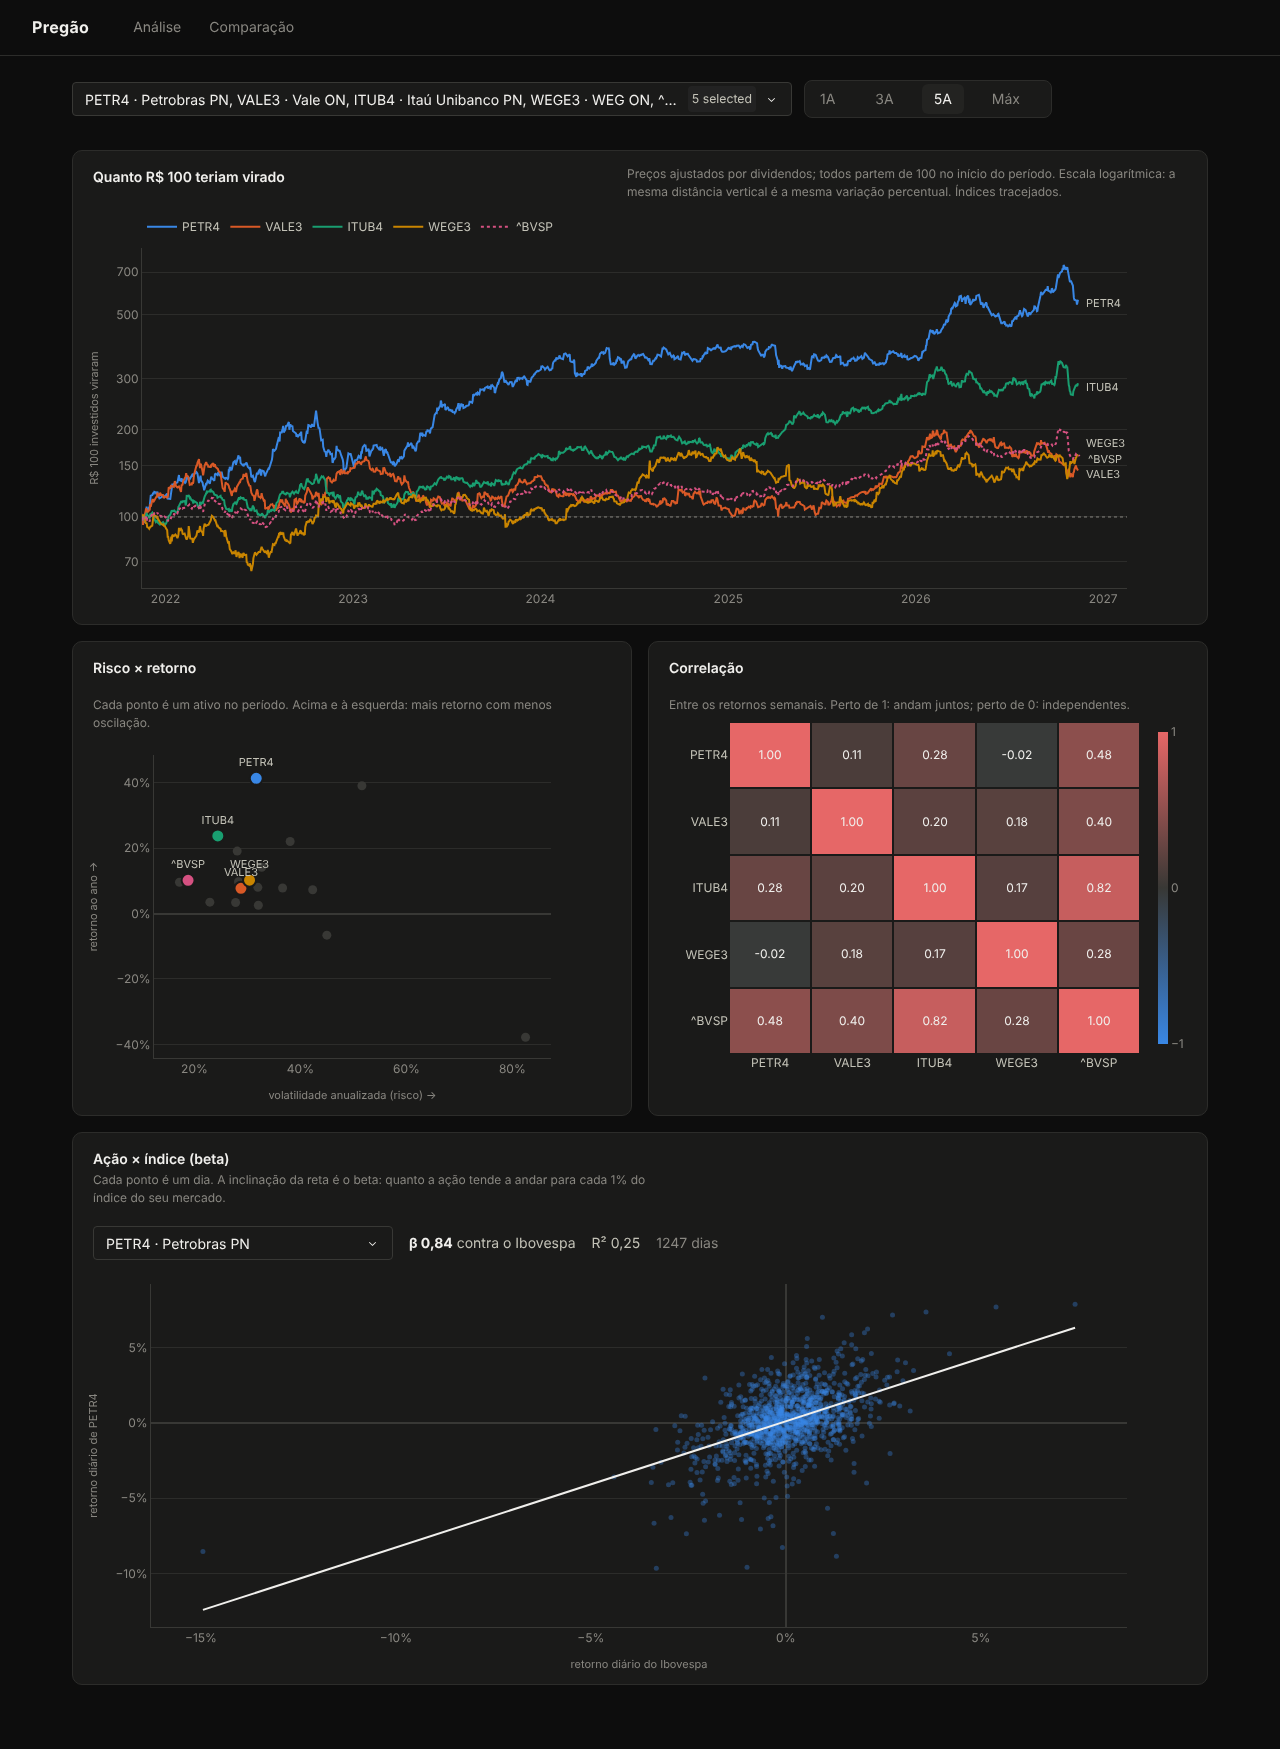
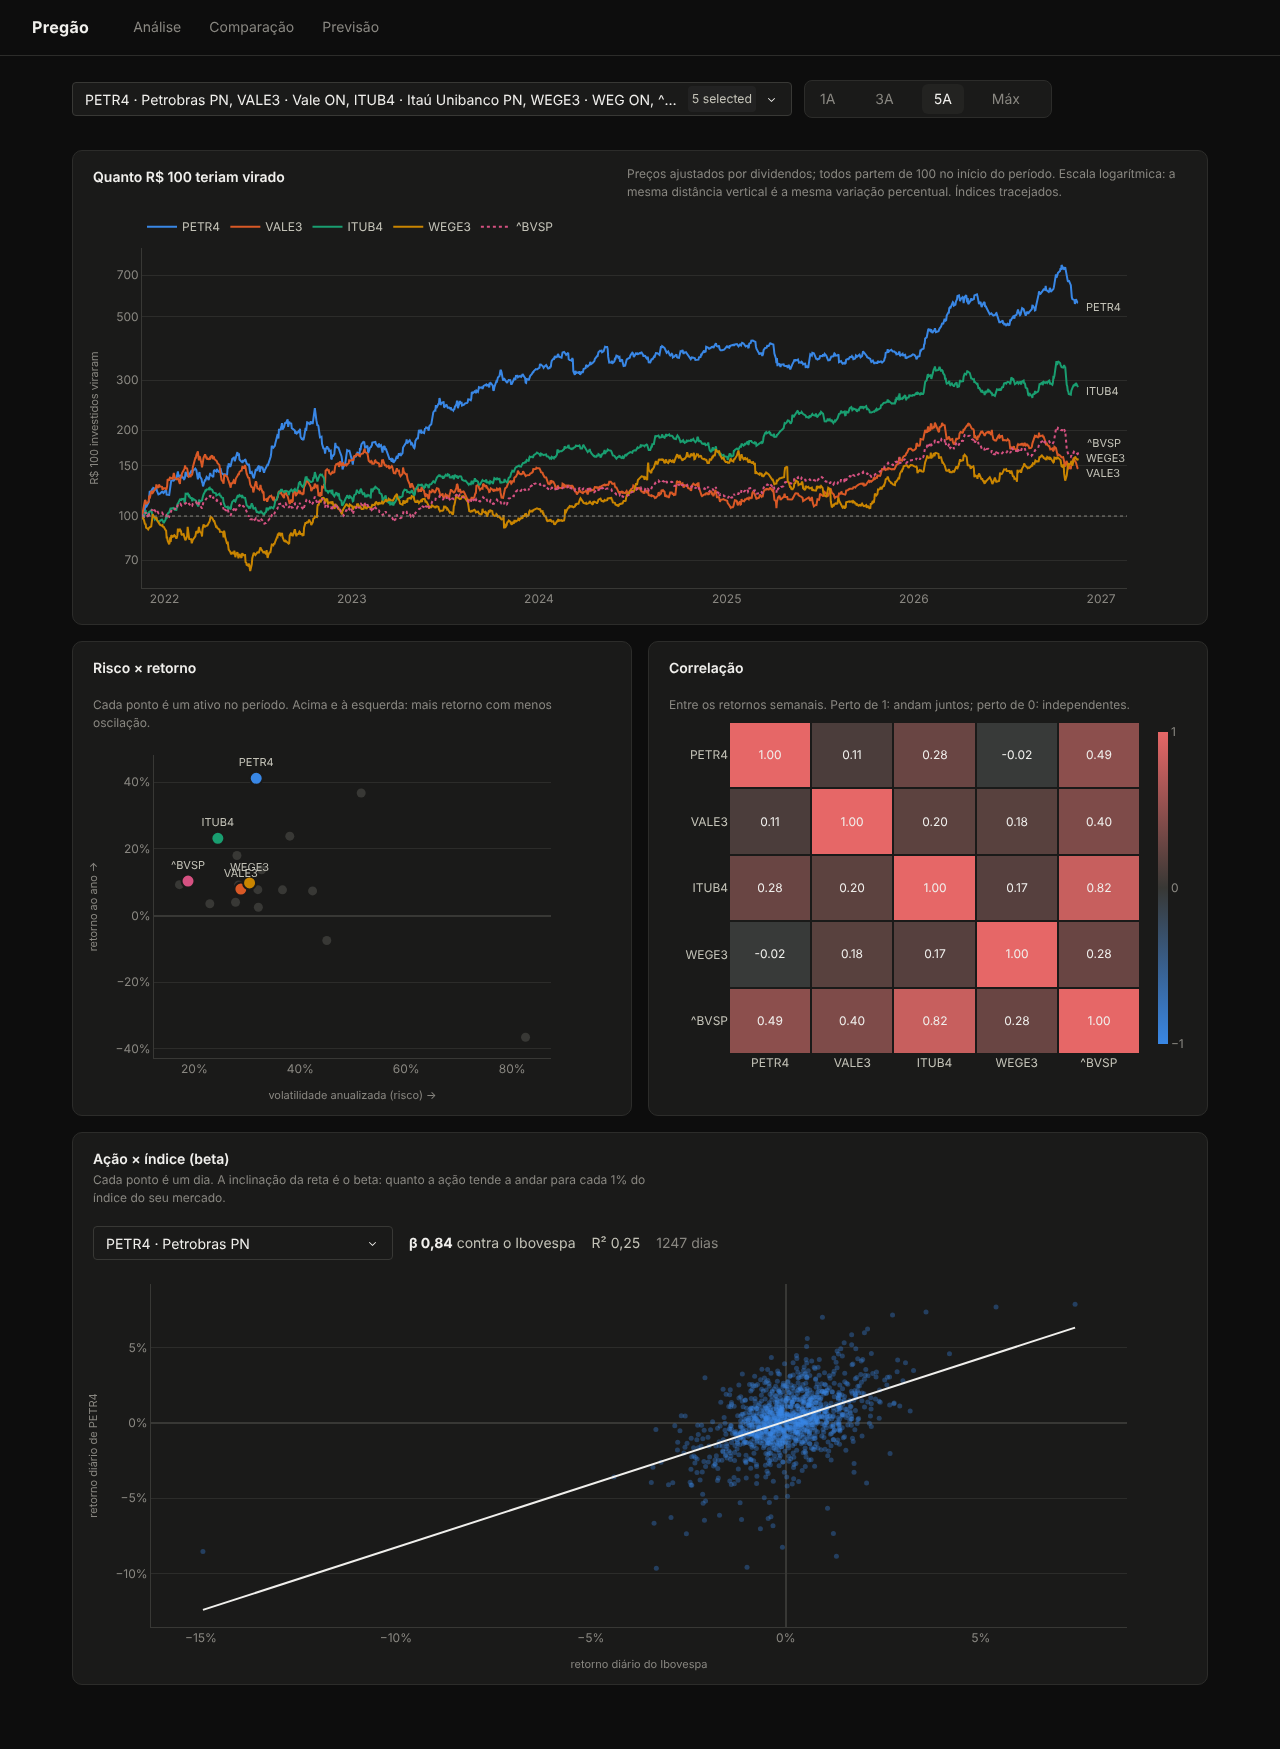
README: tela de previsão e capturas atualizadas

Changed region(s): [[0.0938, 0.1852, 0.875, 0.3396], [0.125, 0.4631, 0.2188, 0.5249], [0.75, 0.1544, 0.8438, 0.1852]]

diff --git a/README.md b/README.md
@@ -8,11 +8,13 @@ Painel para visualizar ações da B3 e dos EUA e testar modelos de previsão de 
 
 ![Tela de comparação](docs/comparacao.png)
 
+![Tela de previsão](docs/previsao.png)
+
 ## Telas
 
 - **Análise** (pronta): velas com médias móveis de 20, 50 e 200 dias, volume, RSI, drawdown e as estatísticas do período (retorno, retorno anualizado, volatilidade e pior queda). As velas e as médias usam preços ajustados por dividendos e desdobramentos.
 - **Comparação** (pronta): até 6 ativos lado a lado. Quanto R$ 100 teriam virado em cada um (escala log), risco × retorno de todos os ativos acompanhados, correlação entre retornos semanais e o beta de uma ação contra o índice do seu mercado.
-- **Previsão** (próxima): a tela que mostra os resultados do motor de ML descrito abaixo.
+- **Previsão** (pronta): a previsão de cada modelo para os próximos 5 pregões, com intervalo de 80%; a tabela do backtest com erro, skill, acerto de direção e p-valor; previsto × realizado; a vantagem acumulada de cada modelo sobre a baseline ao longo do tempo; as features que o LightGBM mais usa; e o resumo das 17 ações.
 
 ## Previsão: o que foi testado e o que deu
 
@@ -34,6 +36,8 @@ As features usam só informação disponível no fechamento do dia: retornos e v
 
 - **Retorno:** nenhum modelo supera "prever zero". O LightGBM é significativamente *pior* nas 17 ações (skill de −5% a −14%): ele encontra padrões no ruído do treino que não se repetem. O acerto de direção fica perto de 50%, abaixo de simplesmente apostar que a ação sobe.
 - **Volatilidade:** o LightGBM erra menos que a baseline nas 17 ações (skill de +2% a +16%), com diferença significativa em 5 delas. A regressão linear ganha em 14 e também é significativa em 5. A volatilidade tem memória (períodos agitados vêm em sequência), e é isso que os modelos capturam; mas a baseline "último mês" já captura boa parte dessa memória, então o ganho é modesto.
+
+O gráfico de vantagem acumulada mostra uma nuance que a média esconde: boa parte do ganho na volatilidade veio de um único período, a pandemia (2020-2021), quando a volatilidade mudou de patamar muito rápido e a baseline "último mês" ficou para trás. Fora desses choques, a vantagem é pequena.
 
 Prever a direção do preço é praticamente impossível com dados públicos de preço; prever o *risco* é possível, com ganho real mas pequeno. Os números são recalculados toda semana.
 
@@ -78,6 +82,7 @@ pregao/
   indicators.py   retornos, médias móveis, RSI, volatilidade, drawdown
   analysis.py     prepara um ativo para a tela: ajuste, recorte, velas semanais/mensais
   comparison.py   vários ativos: normalização, risco × retorno, correlação, beta
+  forecast.py     resume os resultados do ML para a tela de previsão
   theme.py        cores e estilo dos gráficos
   charts.py       figuras Plotly
   ui.py           peças de interface usadas por mais de uma página
